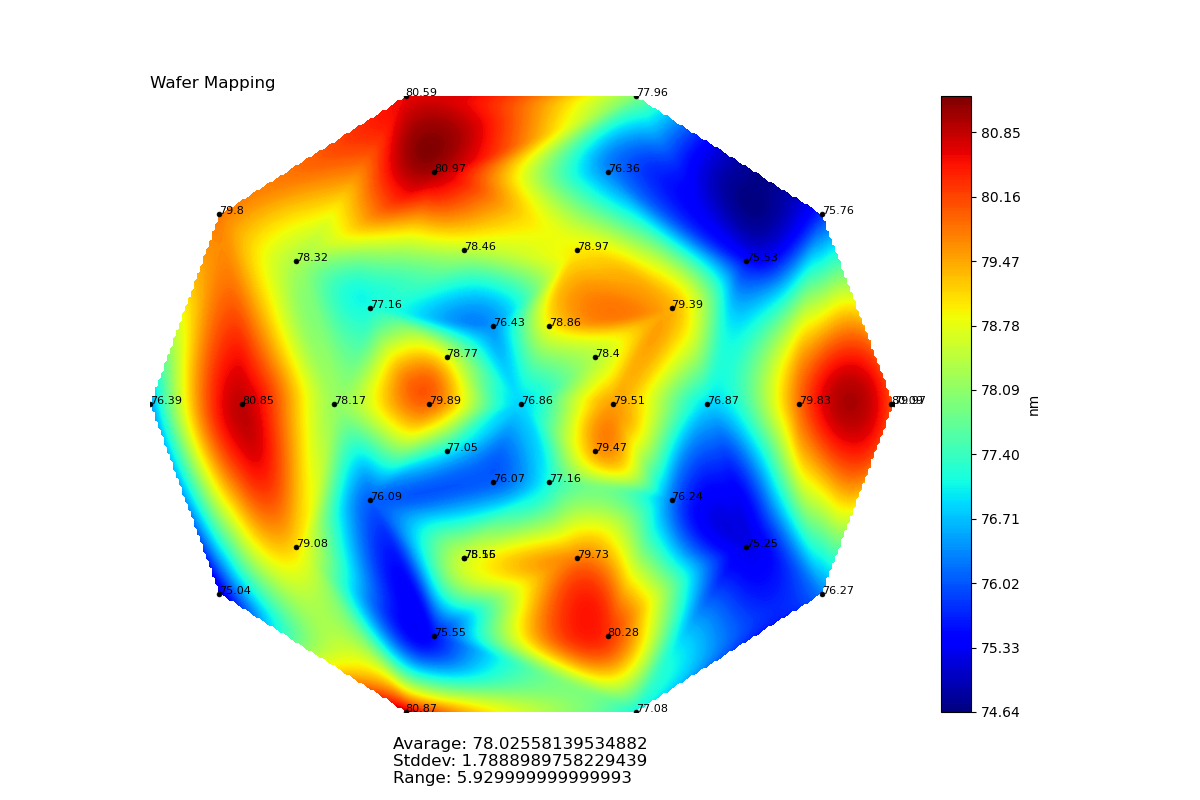
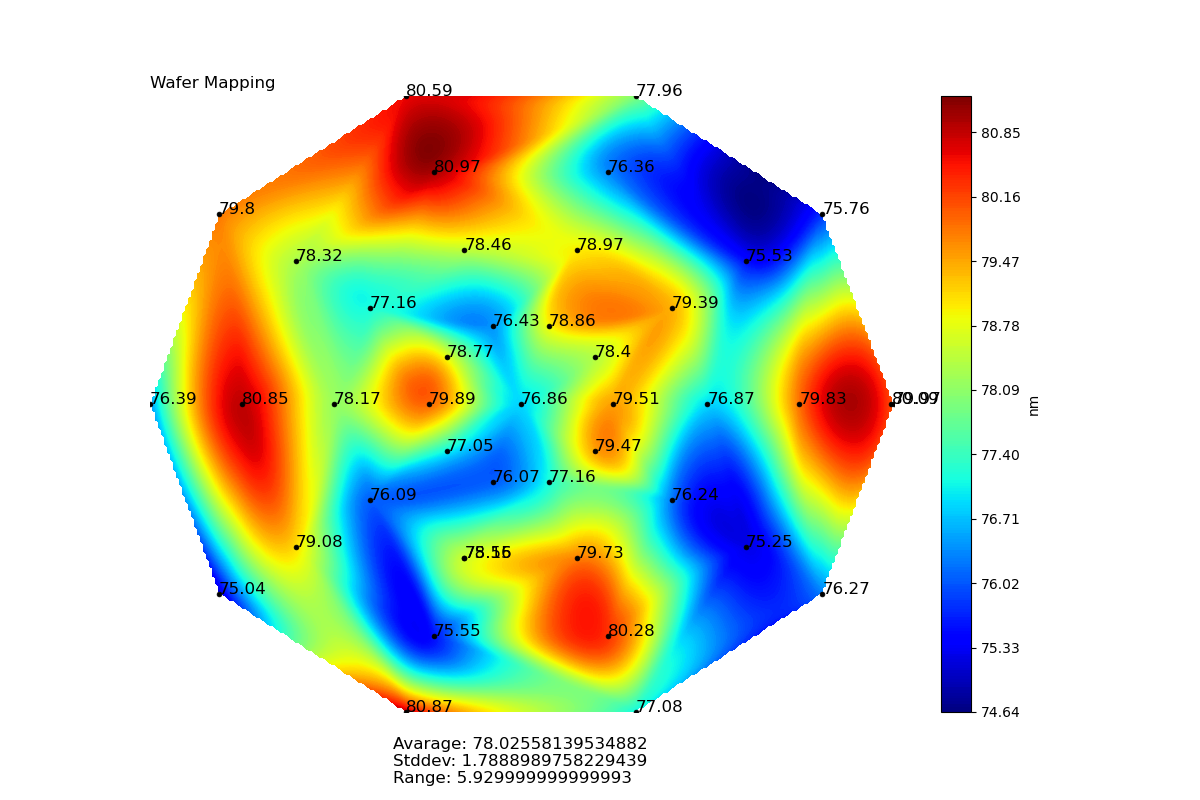
New Commit

diff --git a/WaferMappingProfiler3D.py b/WaferMappingProfiler3D.py
@@ -1,0 +1,36 @@
+import matplotlib.pyplot as plt
+import numpy as np
+from scipy.interpolate import griddata
+from mpl_toolkits.mplot3d import Axes3D
+
+database = np.genfromtxt('dataset.csv',delimiter=',')
+x = database[1:,0]
+y = database[1:,1]
+z = database[1:,2]
+
+def plot_contour(x,y,z,resolution = 250,contour_method='linear'):
+    resolution = str(resolution)+'j'
+    X,Y = np.mgrid[min(x):max(x):complex(resolution), min(y):max(y):complex(resolution)]
+    points = [[a,b] for a,b in zip(x,y)]
+    Z = griddata(points, z, (X, Y), method=contour_method)
+    return X,Y,Z
+
+X,Y,Z = plot_contour(x,y,z, resolution = 250, contour_method='cubic')
+fig = plt.figure()
+ax = fig.add_subplot(111, projection='3d')
+ax.plot_wireframe(X, Y, Z)
+plt.show()
+# plt.colorbar(orientation = 'vertical', label = 'nm')
+# plt.scatter(x,y, color="black", linewidth=0.5, edgecolor="black", s=12)
+# plt.axis('off')
+
+# plt.title('Wafer Mapping', loc = 'left')
+# for i, txt in enumerate(z):
+#     plt.annotate(txt, (x[i], y[i]), size = 12)
+#
+#
+# Info = "Avarage: " + str(np.mean(z)) + '\n' + "Stddev: " + str(np.std(z)) + '\n' + "Range: " + str(np.max(z)-np.min(z))
+# plt.text(100,-20, Info, fontsize=12)
+#
+# plt.savefig('Film Thickness Profile.png')
+# plt.show()

diff --git a/WaferMappingProfiler.py b/WaferMappingProfiler.py
@@ -24,10 +24,13 @@ plt.axis('off')
 
 plt.title('Wafer Mapping', loc = 'left')
 for i, txt in enumerate(z):
-    plt.annotate(txt, (x[i], y[i]), size = 8)
+    plt.annotate(txt, (x[i], y[i]), size = 12)
+
 
 Info = "Avarage: " + str(np.mean(z)) + '\n' + "Stddev: " + str(np.std(z)) + '\n' + "Range: " + str(np.max(z)-np.min(z))
 plt.text(100,-20, Info, fontsize=12)
 
 plt.savefig('Film Thickness Profile.png')
 plt.show()
+
+p
